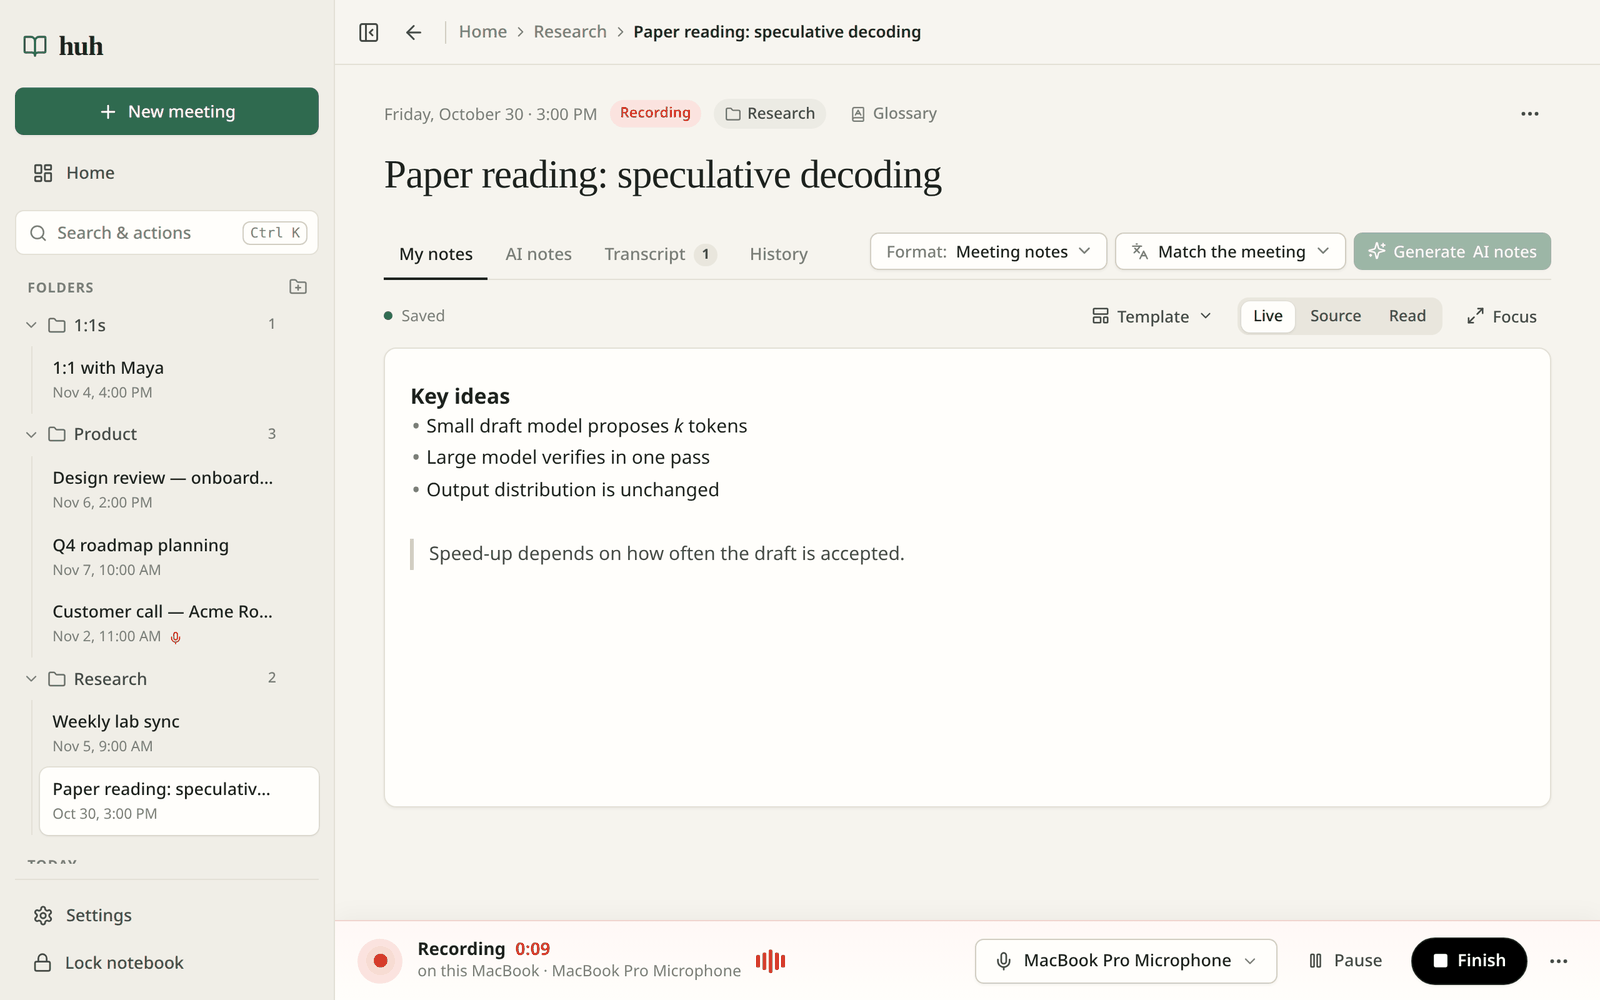
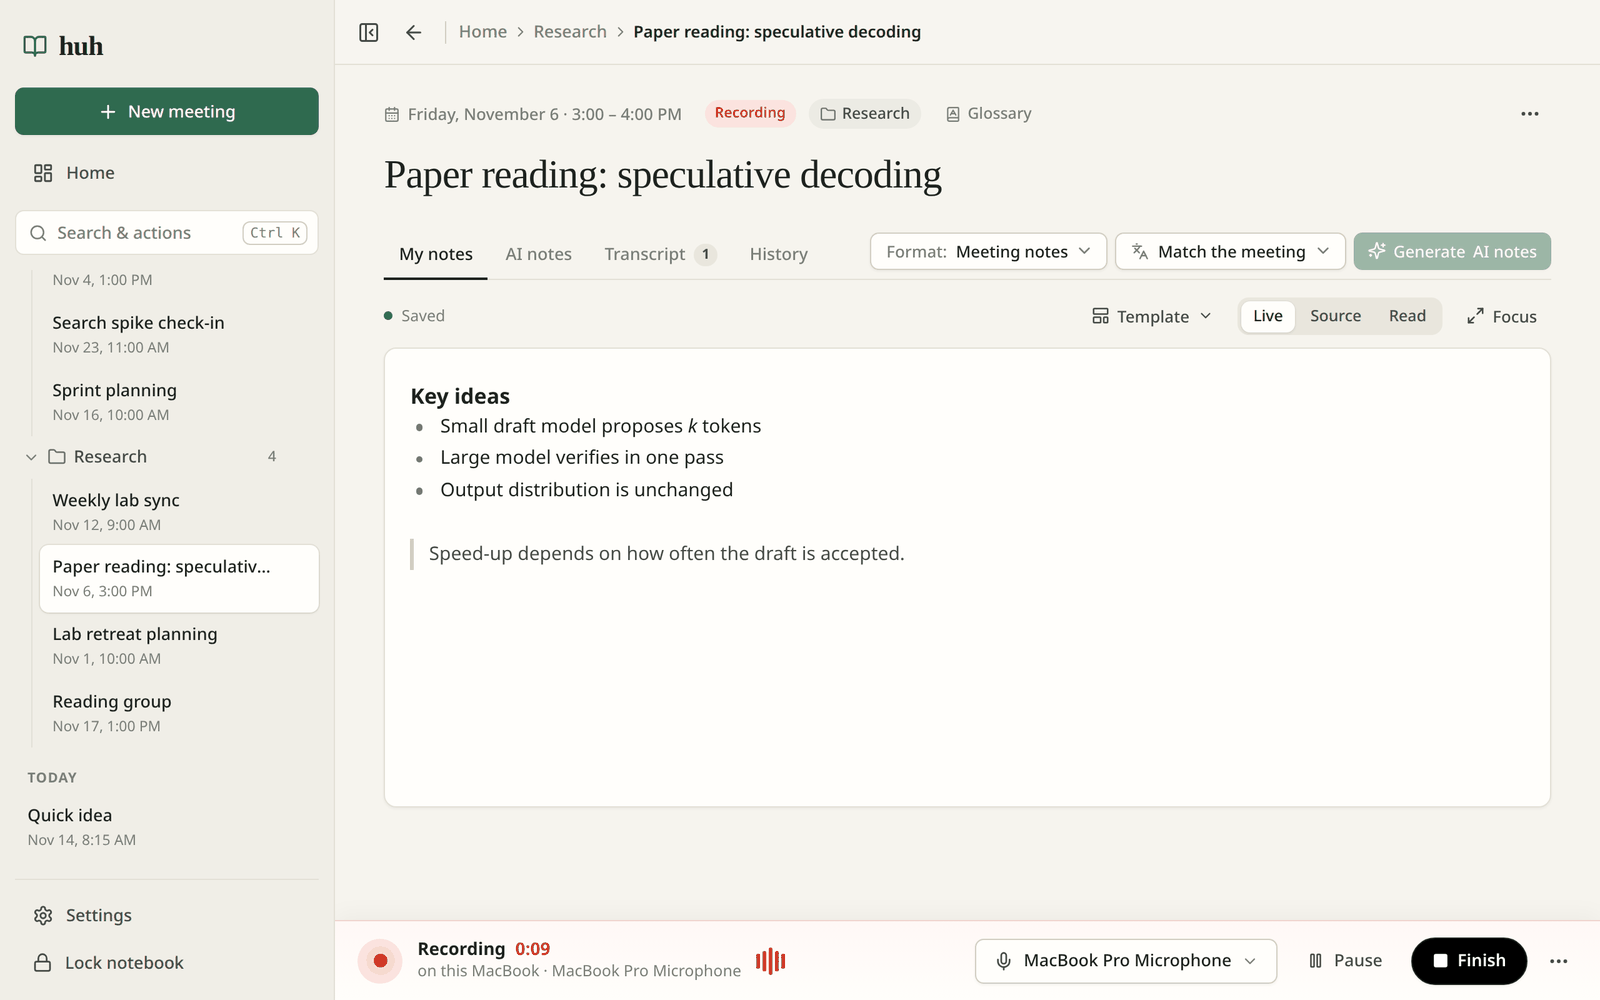
Refresh README screenshots for the calendar, meeting times and Agents
- Re-capture Home (day/week/month calendar), the live editor GIF (nested
  lists on the new grid), the Ctrl/⌘K GIF, recording, sources, transcript
  and phone shots so they show the current UI.
- Add the meeting time picker and Settings → Agents screenshots.
- Describe meeting times, the Home calendar, list layout and the
  remembered Continuity mic.

Changed region(s): [[0.0, 0.279, 0.1562, 0.868], [0.25, 0.403, 0.4688, 0.496], [0.25, 0.093, 0.6562, 0.124]]

diff --git a/README.md b/README.md
@@ -2,7 +2,7 @@
 
 **A self-hosted meeting notebook.** Take notes during a meeting, record from your laptop or phone, get a private transcript made on your own GPU, and turn your notes plus the transcript into clean AI notes. Every claim links back to what was said.
 
-![Huh home: this week at a glance, folders, recent meetings and open to-dos](docs/images/dashboard.png)
+![Huh home: what's next today, this week's stats, a day/week/month calendar of meetings and recently edited notes](docs/images/dashboard.png)
 
 ## Quick start
 
@@ -19,13 +19,19 @@ You need Docker with Compose v2. An NVIDIA GPU makes transcription fast, but it'
 
 ### Notes first
 
-Write Markdown that formats as you type: headings, bold, lists and checkboxes look finished while the raw syntax shows only on the line you're editing. There are also note templates, Tab/Shift+Tab indentation and a distraction-free focus mode.
+Write Markdown that formats as you type: headings, bold, lists and checkboxes look finished while the raw syntax shows only on the line you're editing. Bullets, numbers and to-dos line up on one grid, and wrapped or nested lines hang neatly under their item. There are also note templates, Tab/Shift+Tab indentation and a distraction-free focus mode.
 
-![Typing a heading, a bullet and a checklist item in the live editor, then ticking it](docs/images/notes.gif)
+![Typing a heading, a nested bullet list and a checklist item in the live editor, then ticking it](docs/images/notes.gif)
+
+### Meetings on a calendar
+
+Every meeting has a date, start time and length. Click the date line at the top of a meeting to change them: pick a day, a 15-minute slot or type a time like "2:30pm", and set the length. Future meetings are tagged **Upcoming**, and Home shows them in a **Day / Week / Month** calendar along with what's next today. Times follow the time zone you choose in Settings.
+
+<p align="center"><img src="docs/images/meeting-time.png" alt="The meeting time picker: a month calendar, start times and length buttons" width="640"></p>
 
 ### Record from any device
 
-Start and stop from one device and record on another, for example your phone in the middle of the table. You can switch microphones mid-recording, add backup devices, and uploads resume if the network drops. You can also import a recording or a Voice Memo afterwards.
+Start and stop from one device and record on another, for example your phone in the middle of the table. You can switch microphones mid-recording, add backup devices, and uploads resume if the network drops. Huh remembers your microphone, so an iPhone used as a Mac mic (Continuity) is picked up again as soon as it connects. You can also import a recording or a Voice Memo afterwards.
 
 ![A meeting while recording, with the recorder bar at the bottom](docs/images/recording.png)
 
@@ -68,11 +74,13 @@ Huh is also an [MCP](https://modelcontextprotocol.io) server, so Claude Code, Co
    claude mcp add --transport http --scope user huh https://<your-huh-address>/mcp --header "Authorization: Bearer huh_…"
    ```
 
+<p align="center"><img src="docs/images/agents.png" alt="Settings → Agents: the MCP server address, a box to create a token, and three agent tokens with when each was last used" width="760"></p>
+
 Agents get read-only tools: `search_meetings`, `list_meetings`, `get_meeting` (your notes and AI notes), `get_transcript` (paged), `list_folders` and `list_todos`. They can't change anything. Each token can be revoked on the same page, which also shows when each token was last used. Reach the server the same way your other devices do (for example over Tailscale), since Huh only listens on this computer by default.
 
 ### And also
 
-- **Dashboard:** this week at a glance, recent meetings and every open to-do across meetings.
+- **Home:** what's next today, this week's numbers, the meeting calendar, recently edited meetings and every open to-do across meetings.
 - **Folders and archive** to keep things tidy.
 - **Glossary** per meeting, so the AI spells names and jargon right.
 
